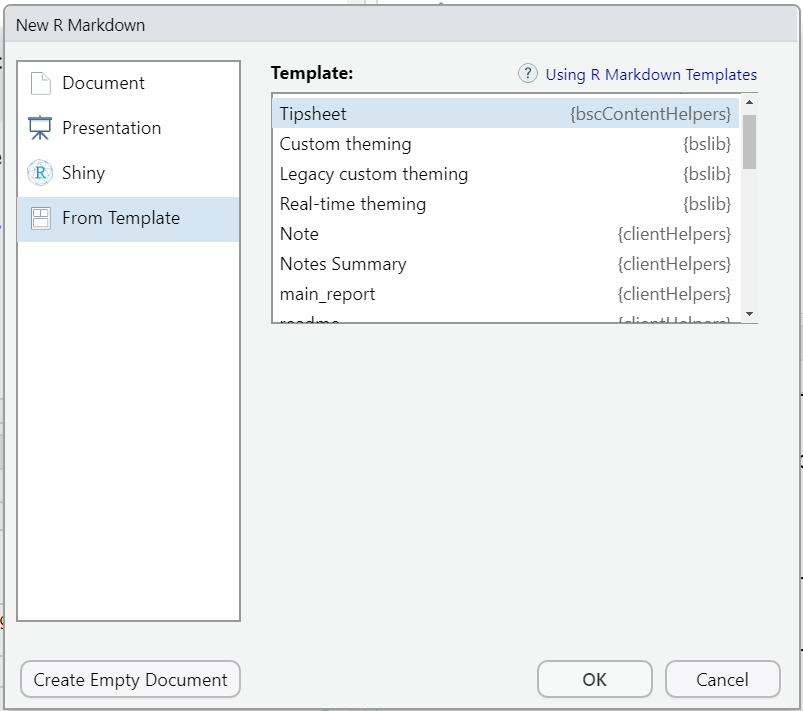
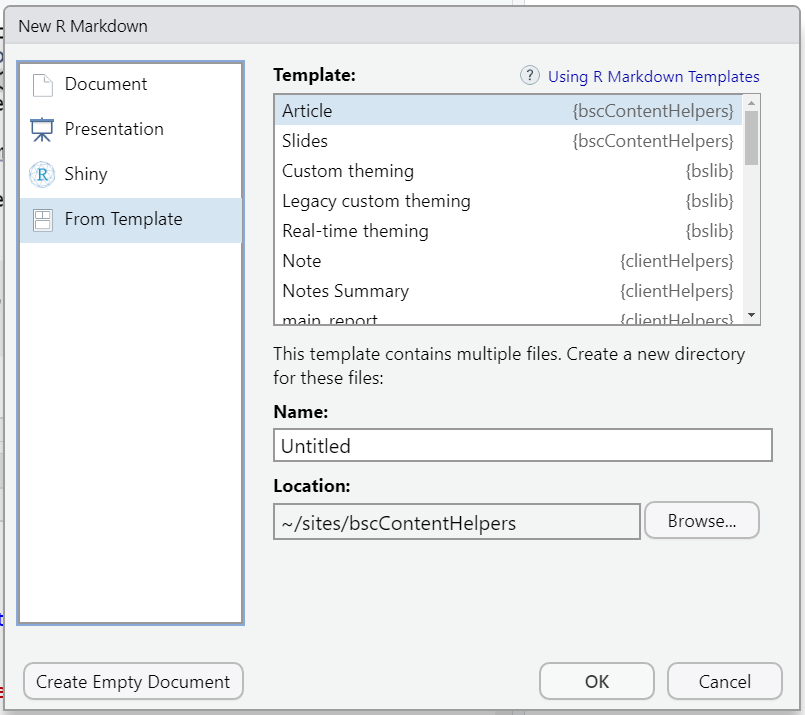
edits readme

diff --git a/README.md b/README.md
@@ -12,67 +12,66 @@ Core.
 
 ## Quick Start
 
-### Install the Package and Dependencies
+### Install Software and R Packages
 
-The primary workflow described here relies on [R Studio](). Workarounds
-are possible but probably not worth the hassle.
+The primary workflow described here relies on
+[R](https://www.r-project.org/) and [RStudio](https://www.rstudio.com/),
+so be sure to install those first. Workarounds to RStudio are possible
+but probably not worth the hassle.
 
-You can install the development version of bscContentHelpers from
+You can install the development version of `bscContentHelpers` from
 [Github](https://github.com/) with:
 
 ``` r
-install_github("rmlane/bscContenHelpers")
+devtools::install_github("rmlane/bscContentHelpers")
 ```
 
-The repository is currently private, so you will need an authorization
-key. The package must be installed to access the document templates,
-functions, and supporting files.
-
 The current package relies on several underlying packages and software
-products (pandoc, `rmarkdown`, `bookdown`). These should be
-automatically installed when you install `bscContentHelpers`.
+products (pandoc, `rmarkdown`, `bookdown`, a LaTeX engine). These should
+be automatically installed with RStudio and `bscContentHelpers`. If you
+run into trouble, you can install manually:
+
+``` r
+# install R markdown
+install.packages('rmarkdown')
+
+# install the TinyTex LaTeX engine
+install.packages('tinytex')
+tinytex::install_tinytex()
+```
 
 ### Create a Draft
 
-In R Studio, create a new draft document.
-
-To use the R Studio `New File` add-in, navigate to
-`File > New File > R Markdown... > From Template`. Select one of the
-templates from the `bscContentHelpers` package. Current options for
-types of documents include “article” and “slides”.
+To use the RStudio `New File` add-in to create a document draft,
+navigate to `File > New File > R Markdown... > From Template`. Select
+one of the templates from the `bscContentHelpers` package (for example,
+Article or Slides).
 
 ![Create a new doc from a
 template.](man/figures/new_doc_from_template.png)
 
-You can also create a new blank document based on a template by manually
-calling `rmarkdown::draft()`:
+You can also create a new by manually calling `rmarkdown::draft()`:
 
 ``` r
-rmarkdown::draft("covid_tipsheet.Rmd", template = "article", package = "bscContentHelpers")
+rmarkdown::draft("my_file_name.Rmd", template = "article", package = "bscContentHelpers")
 ```
 
 ### Edit
 
-Do a little editing, making use of [(R) Markdown syntax]() and [R code
-chunks]().
+Do a little editing, making use of [markdown
+syntax](https://www.markdownguide.org/basic-syntax/) and [R code
+chunks](https://rmarkdown.rstudio.com/lesson-3.html).
 
-You should change the document title. You can also edit other fields in
-the YAML header or leave them as is. It’s a good idea to leabe the
-output format as `bscContentHelpers::html_document` during content
-development, but you can also change this value to a [different output
-format]() if you wish.
+You can also edit fields in the YAML header or leave them as is.
 
 ### Knit
 
-Convert the .Rmd draft to a polished, formatted document in one of two
-ways:
+Convert the .Rmd draft to a formatted HTML document by clicking
+RStudio’s `Knit` button or using the `Ctrl + Shift + K` keyboard
+shortcut. The document is ready for previewing or sharing.
 
--   Click the `knit` button in R Studio
--   Use the `Ctrl + Shift + K` keyboard shortcut.
-
-These actions tell R Studio to knit the document, calling
-`rmarkdown::render()` with any arguments defined in the document
-templates.
+There are many other output file types (.docx, .pptx, .pdf) and formats
+possible. \[See below\] for details
 
 ## Under the Hood
 
@@ -84,41 +83,42 @@ and [a knit function](#knit-function).
 
 At its most basic, an .Rmd template is a sample file, written in R
 Markdown, that may include standard headers, sample code, or boilerplate
-text. It will also contain default and placeholder settings in a header
-block.
-
-In the context of an R package, an Rmd template also includes supporting
-documents and settings. This controls the structure of a document. For
-example, it
-
-Existing BSC templates include:
+text. Templates defined in this package include:
 
 -   Article. This could be used for a tipsheet or other short article.
--   Slides
+-   Slides. This is set up to create a Powerpoint document.
 
-Each template also includes a `references.bib` file, where references
-can be included in bibtex format. Refer to sources in the format
-`[@source]`.
+Create a document using each of these template types and study the YAML
+header blocks, surrounded by three ticks (`---`). These settings
+determine document metadata (title, date, author) and output options
+(output\_file, output\_dir).
 
 ### An Output Format
 
-This is an R function that defines the file type (e.g., docx, html) and
-the look and feel of the output document. It should be referenced in the
-YAML frontmatter of the Rmd document. One Rmd file can be knit to
-multiple output formats simultaneously. To allow for this, include all
-outputs under `output:` in the YAML header.
+This is an R function that defines the file extension (e.g., docx, html)
+and the look and feel of the final document. It should be referenced in
+the YAML header of the Rmd document. Each format has default settings,
+some of which can be customized at the document level.
 
-Each format has default settings, some of which can be customized at the
-document level.
+One Rmd file can be knit to multiple output formats simultaneously. To
+allow for this, include all outputs under `output:` in the YAML header.
 
-`html_draft`. This can be used while developing content to avoid
-focusing too much on the final aesthetic details. Customization: \*
-`toc`. Include a table of contents at the start of the document? \*
-`theme`. Name of the CSS style to use. Defaults to a plain, clean style.
+Document types defined in this package:
 
-`pptx_presentation`
+-   `html_draft`. This can be used while developing content to avoid
+    focusing too much on the final aesthetic details. Customizations:
+    -   `toc`. Include a table of contents at the start of the document?
+    -   `theme`. Name of the CSS style to use. Defaults to a plain,
+        clean style.
+-   `pptx_presentation`
+    -   `theme`
+-   `word_document`
+    -   `theme`
+    -   `toc`
 
-`word_document`
+Note that you can also use output formats defined outside this package
+if you prefer. `rmarkdown` has many nice formats built in, and there are
+dozens of other packages out there.
 
 TODO:
 
@@ -129,12 +129,14 @@ TODO:
 ### A Knit Function
 
 This controls the behavior of the knit button; in other words, it
-determines how the Rmd draft gets turned into the PDF (html, docx, etc.)
-output.
+determines how the Rmd draft gets turned into the pdf (or html or docx
+or pptx) document.
 
-Currently, all custom templates use the same knit function
-(`bsc_knit()`). It must be explicitly mentioned in the YAML metadata of
-an Rmd file (and is included in all templates).
+Currently, all custom in this package templates use the same knit
+function (`bsc_knit()`). It must be explicitly mentioned in the YAML
+metadata of your Rmd file (and is included in all templates). If it’s
+left out, your document will be knit using `rmarkdown`’s default knit
+behavior.
 
 All arguments passed to the knit function have defaults, but some can be
 updated by explicitly setting parameters in the YAML header. These
@@ -152,7 +154,55 @@ include:
     name, if applciable. Defaults to today’s date but can be explicitly
     overridden. To avoid errors, pass as a date object.
 
-## Create a New Template
+## Other Helpful Tips
+
+By default, documents refer to an external bibliography, held in
+`references.bib`. Add references in Bibtex format. Reference them as
+\[@source\].
+
+## Enhancing This Package
+
+### Create a New Reference Doc
+
+You might want to do this to set up a new set of styles but leave an
+output format otherwise the same. The reference doc might be a
+reference.docx, a reference.ppt, or a reference.css.
+
+#### Docx
+
+It’s best to start from a fresh pandoc template. In the terminal (not
+the R console):
+
+    $ pandoc -o custom-reference.docx --print-default-data-file reference.docx
+
+Open the new file (`custom-reference.docx`). Built-in styles are listed
+in the ribbon. To edit a style, right-click its name and select
+`Modify...`. Change font or paragraph options or add header images.
+Later documents based on this reference document will have the updated
+styles applied.
+
+![.docx styles](man/figures/docx_styles.png)
+
+![.docx styles](man/figures/modify_docx_styles.png)
+
+Save the reference document in this package’s `inst/rmd_files/`
+directory with a descriptive name. Check and reinstall the package. The
+name will become a theme name that can be referenced in the yaml header
+(e.g., reference `teal.docx` with the yaml option `theme: "teal"`).
+
+Note that just changing the formatting of the text in the document,
+without editing the underlying style, will not extend to documents based
+on this template.
+
+#### .pptx
+
+*TODO: Edit the slide masters.*
+
+#### .css
+
+*TODO: Add a css stylesheet.*
+
+### Create a New Template
 
 To start, generate a new Rmd template and supporting structures by
 calling `use_rmarkdown_template()`, part of the `usethis` package. A
@@ -181,7 +231,7 @@ can be standardized in this document so they will be the same every time
 a document of this type is created. For more about formats and knit
 functions, see below.
 
-## Create a New Format
+### Create a New Output Format
 
 An Rmd template defines the content and structure of a document. Once
 the content has been developed, one or more formats can be applied.
@@ -213,19 +263,21 @@ uic_pptx <- function() {
 }
 ```
 
-Supporting files should be in `inst/rmd_files/`. See examples in `R/`
-(`html_draft()`) or the excellent [R Markdown
+Supporting files should be put in `inst/rmd_files/`. See examples in
+`R/` (`html_draft()`) or the excellent [R Markdown
 documentation](https://bookdown.org/yihui/rmarkdown/) for more examples.
 
-## Create a New Knit Function
+### Create a New Knit Function
 
-You probably don’t need to do this.
+*TODO*
 
 ## Google Drive Integration
 
+*TODO: Think through and expand on this section and process.*
+
 Templates and documents are stored in a [BSC Content folder on Google
 Drive](https://drive.google.com/drive/folders/16XepzMyzRAK4pcuET8goearkb0J5GwLP).
-They can be accessed through R Studio via the [`googledrive`
+They can be accessed through RStudio via the [`googledrive`
 package](https://googledrive.tidyverse.org/).
 
 Reading and writing files requires allowing the R package to access your
@@ -261,13 +313,14 @@ overwrite the existing copy on Google Drive.
 upload_template_to_drive("article")
 ```
 
-### TODO
+TODO
 
--   [ ] decide when, where, and how files should be uploaded to Drive
--   [ ] set target (dynamic) locations for outputs
--   [ ] write a `knit_template` function that will regenerate Rmd
+-   [ ] When, where, and how should files should be uploaded to Drive?
+-   [ ] Set target (dynamic) locations for outputs
+-   [ ] Wite a `knit_template` function that will regenerate Rmd
     templates in Drive
--   [ ] workflows and functions to convert from one template to another
+-   [ ] ~~Workflows and functions to convert from one template to
+    another~~
 -   [ ] connect document titles to file names (and calls to
     `rmarkdown::draft()`)
 -   [x] where to set output doc parameters for use in knit fxn?
